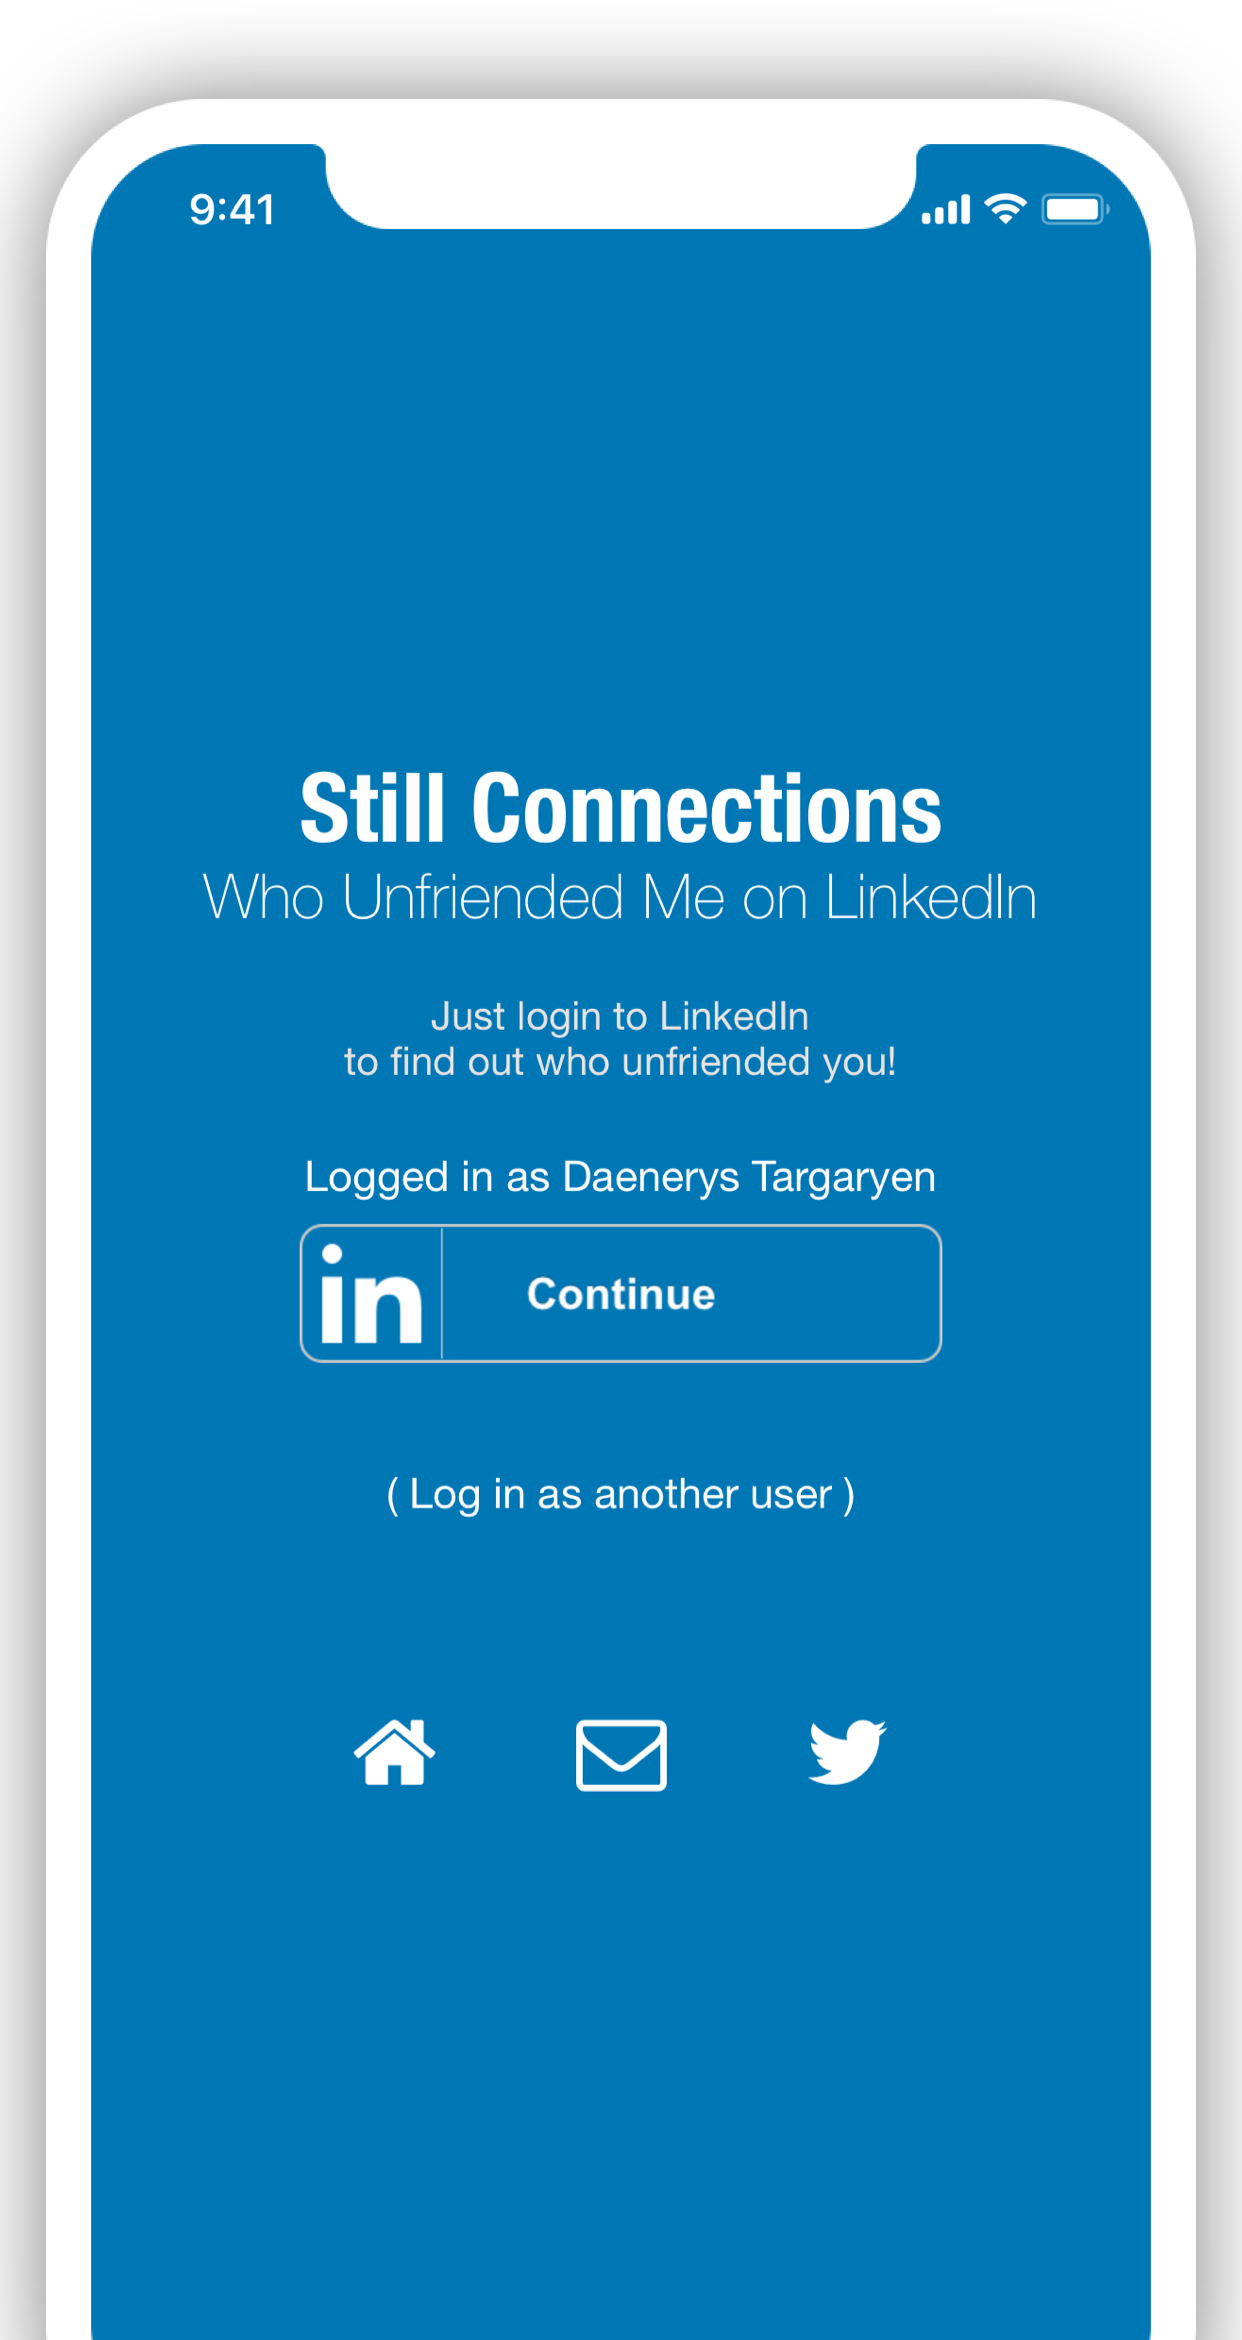
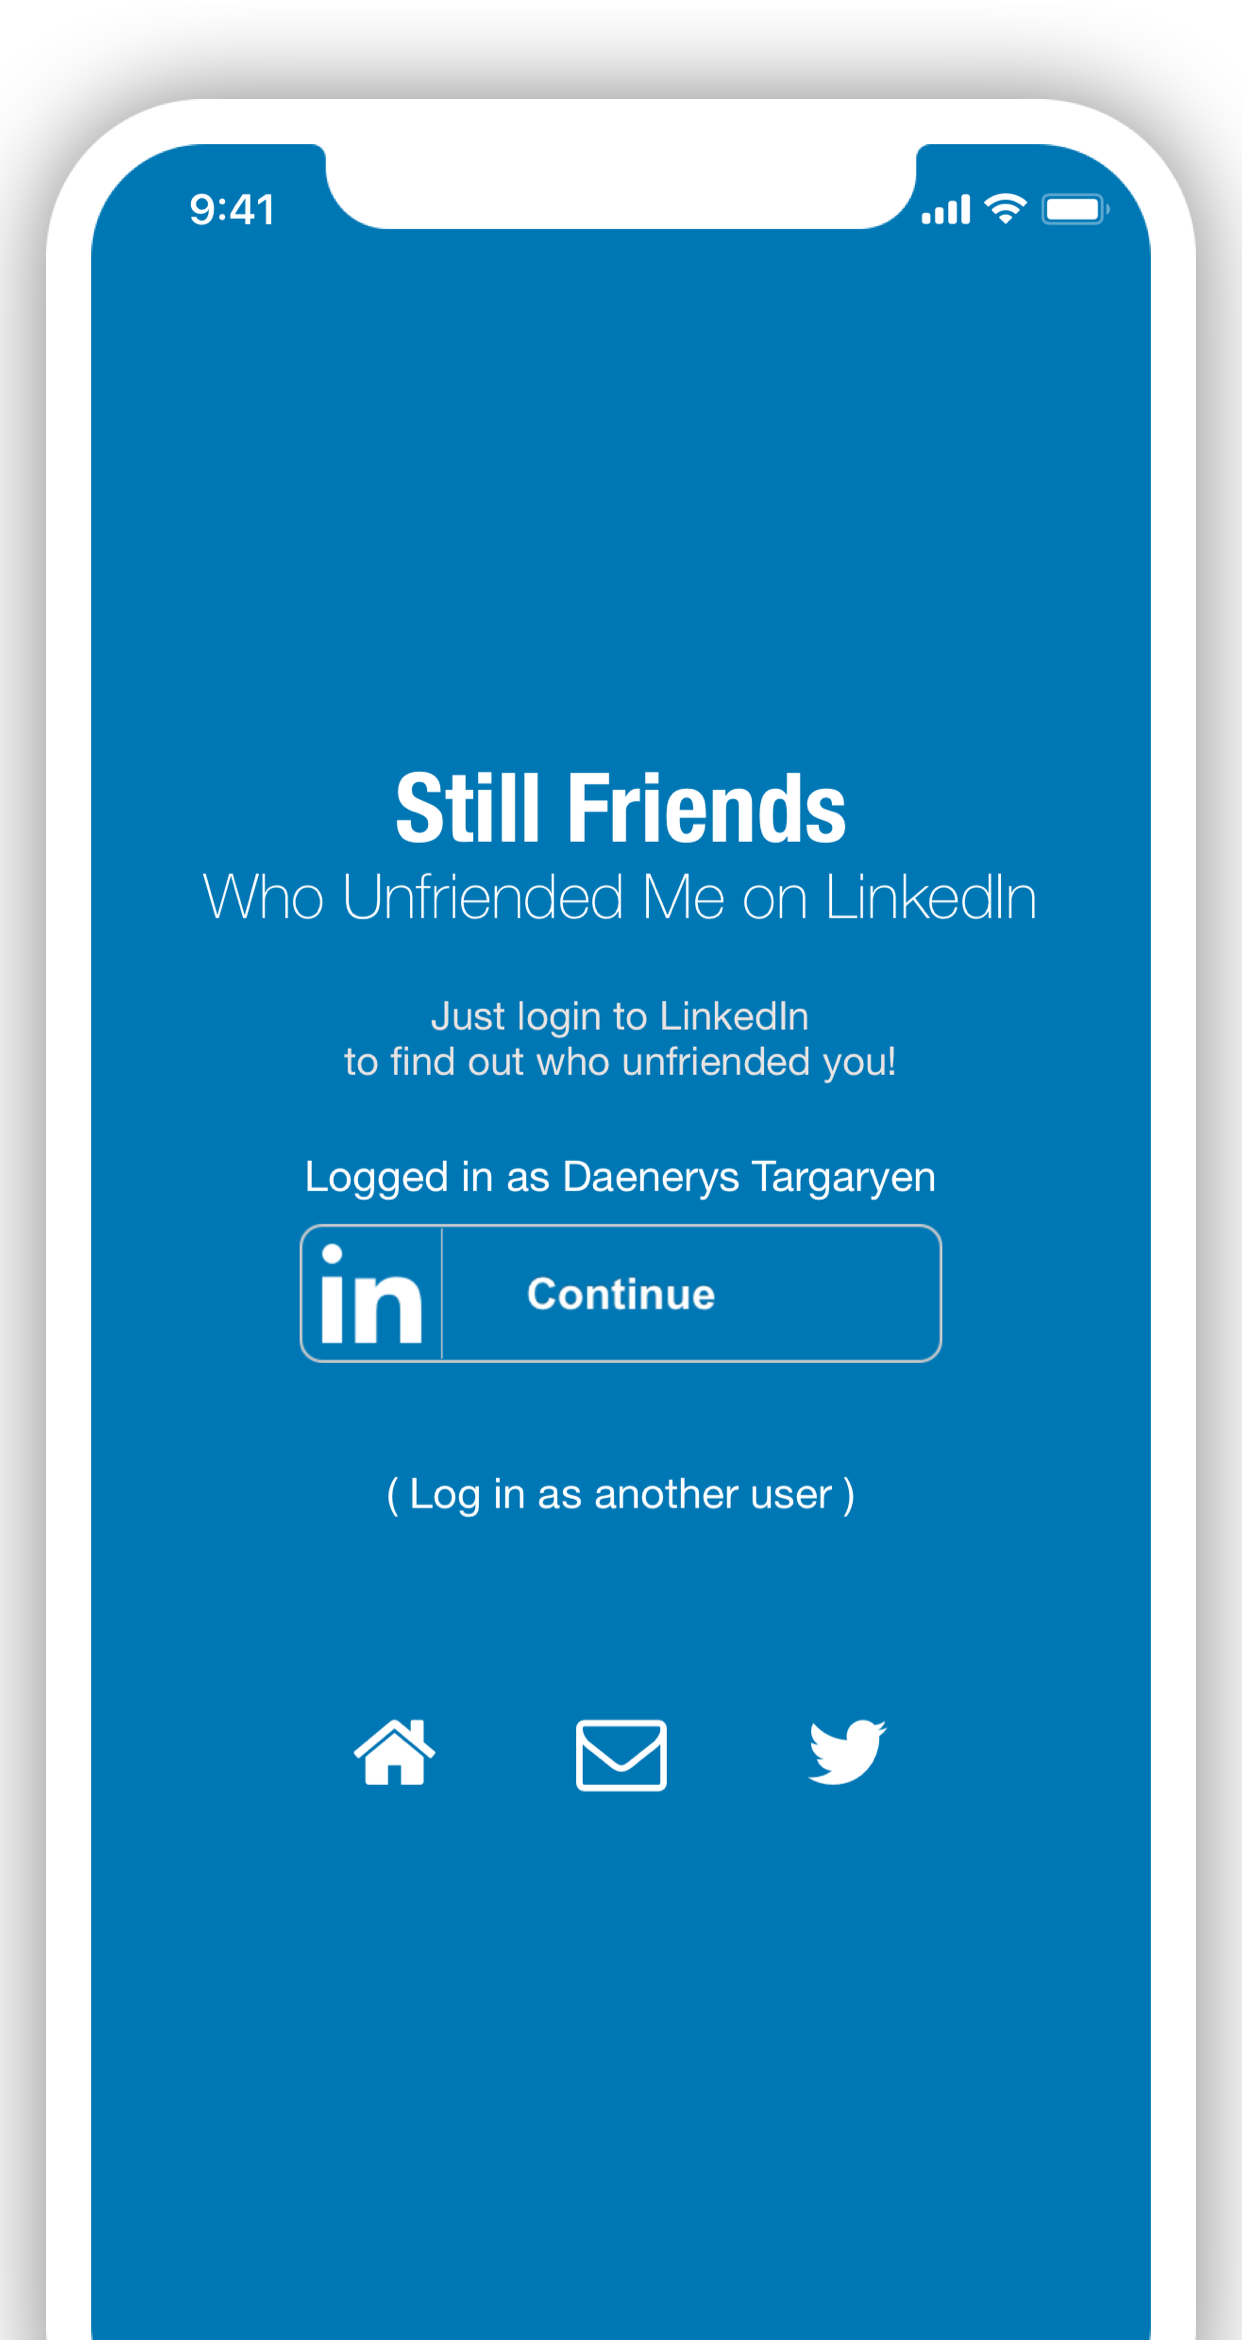
no message

diff --git a/_includes/footer.html b/_includes/footer.html
@@ -1,6 +1,6 @@
 <footer class="footer">
     <p><a href="https://www.bobgoo.com">All Rights Reserved. &copy; 2020 {{site.username}}</a></p>
-    <p><a href="mailto:{{ site.email_username }}?subject=Still%20Connections%20for%20LinkedIn%20Support">Support</a> | <a href="https://twitter.com/{{ site.twitter_username }}">Twitter</a> | <a href="https://www.bobgoo.com/privacy">Privacy</a></p>
+    <p><a href="mailto:{{ site.email_username }}?subject=Still%20Friends%20for%20LinkedIn%20Support">Support</a> | <a href="https://twitter.com/{{ site.twitter_username }}">Twitter</a> | <a href="https://www.bobgoo.com/privacy">Privacy</a></p>
 </footer>
 <script src="//cdn.jsdelivr.net/particles.js/2.0.0/particles.min.js"></script>
 <script src="{{ "/assets/js/sweet-scroll.min.js" | prepend: site.baseurl }}"></script>

diff --git a/_includes/features.html b/_includes/features.html
@@ -41,7 +41,7 @@
         <div class="images-center">
           <img src="/assets/img/iPhone-s5.png" width="300" />
         </div>
-        <p> WHOEVER DELETED YOU,<br>we will find them out!! </p>
+        <p> Whoever deleted you,<br>FIND THEM OUT! </p>
       </h3>
     </div>  
   </div>  

diff --git a/_includes/header.html b/_includes/header.html
@@ -1,7 +1,7 @@
 <div id="particles-js">
   <div class="header">
       <h1>
-        <span class="site-title">Still Connections</span>
+        <span class="site-title">Still Friends</span>
         <span class="site-description">for LinkedIn</span>
       </h1>
     <div class="appstore">
